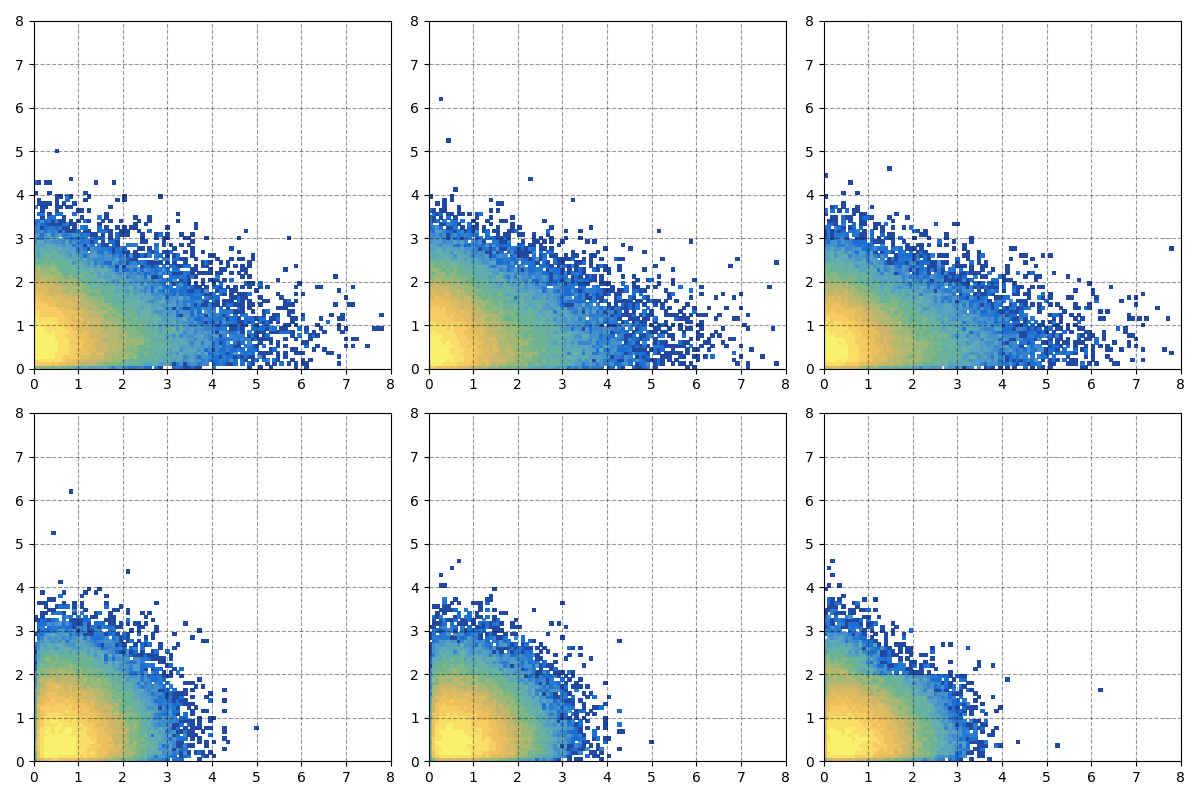
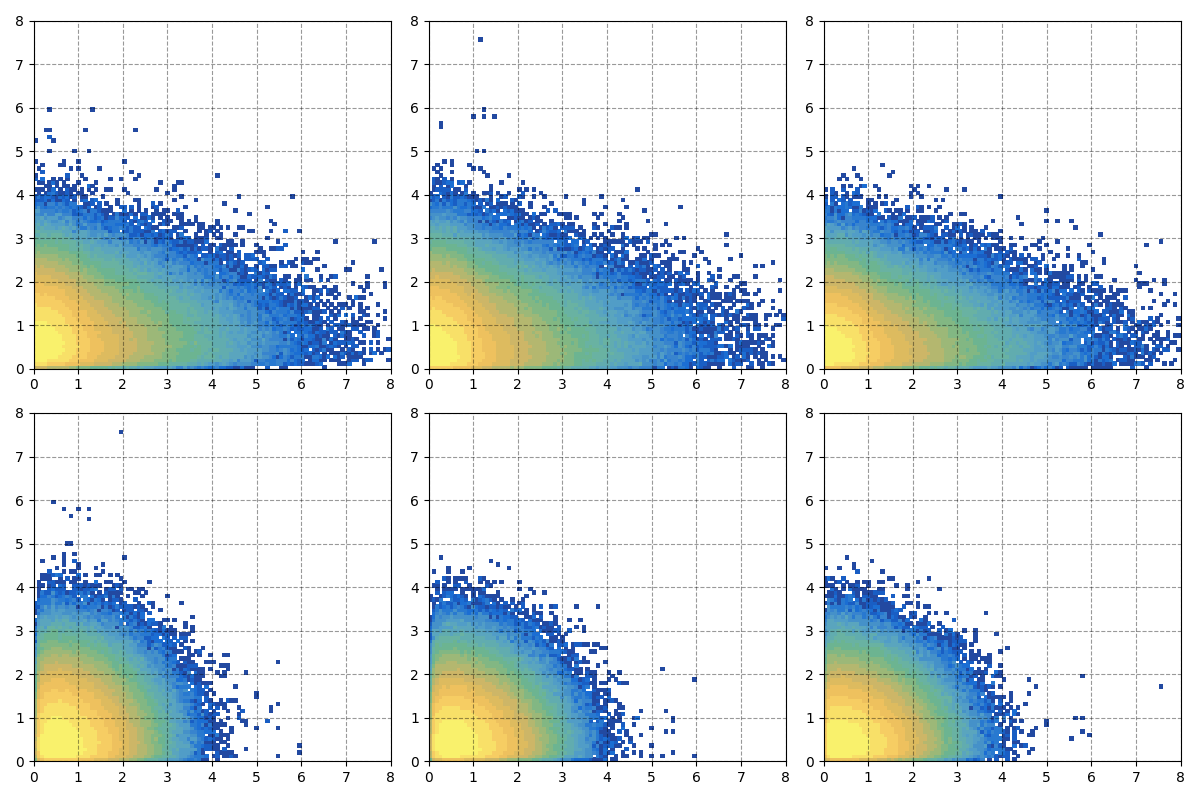
BDT

diff --git a/SHiP_GAN_module/muGAN.py b/SHiP_GAN_module/muGAN.py
@@ -103,7 +103,7 @@ class muGAN:
 
 
 	def generate_aux_tuned(self, size, distribution_parameters):
-		''' Generate tuned auxiliary distribution, will parameterise later. '''
+		''' Generate tuned auxiliary distribution '''
 
 		aux_values = np.abs(np.random.normal(loc=0,scale=1,size=(size,4)))
 
@@ -209,9 +209,8 @@ class muGAN:
 		where_array = where_array[0][:int(shape_i)]
 
 
-		# print(aux_values[where_array,2])
-		aux_values[where_array,2] = aux_values[where_array,2]*0.7
-		# print(aux_values[where_array,2])
+		aux_values[where_array,2] = aux_values[where_array,2]*0.8
+
 
 
 		return aux_values
@@ -574,8 +573,8 @@ class muGAN:
 		print(' ')
 
 	def compare_generators(self, size=10000, size_enhanced=10000, generator_list=['generator.h5'], output_folder='',training_data_location='/Users/am13743/Desktop/Data_for_GAN_paper_plots/real_data.npy'):
-		''' Generate muon kinematic vectors with custom auxiliary values. Function calculates the size variable based on the input aux distribution. '''
-		# auxiliary_distributions=np.load(os.path.dirname(os.path.realpath(__file__))+'/data_files/Seed_auxiliary_values_for_enhanced_generation.npy')
+		''' Compare multiple generators raw output. '''
+
 		self.define_plotting_tools()
 
 		X_train = np.load(training_data_location)
@@ -682,13 +681,91 @@ class muGAN:
 
 
 
+	def BDT_FoM(self, true_muons, generated_muons, test_size=50000):
+		''' Complete BDT FoM scoring... '''
+
+		if np.shape(true_muons)[0] < test_size*2:
+			print('Not enough points for BDT test')
+			quit()
+		elif np.shape(generated_muons)[0] < test_size*2:
+			print('Not enough points for BDT test')
+			quit()
+		elif np.shape(true_muons)[0] != np.shape(generated_muons)[0]:
+			print('Uneven number of points')
+			quit()
+		elif np.shape(generated_muons)[0] != test_size*2:
+			generated_muons = generated_muons[:int(test_size*2)]
+			true_muons = true_muons[:int(test_size*2)]
+
+		print(np.shape(generated_muons), np.shape(true_muons))
+
+		from sklearn.ensemble import GradientBoostingClassifier
+		from sklearn.metrics import roc_auc_score
+
+		# plt.figure(figsize=(12,4))
+		# range_x = [-0.0002,0.0002]
+		# plt.subplot(1,3,1)
+		# plt.hist(true_muons[:,0], bins=51, range=range_x, histtype='step')
+		# plt.yscale('log')
+		# plt.subplot(1,3,2)
+		# plt.hist(generated_muons[:,0], bins=51, range=range_x, histtype='step')
+		# plt.yscale('log')
+		generated_muons[np.where((np.abs(generated_muons[:,0])<0.0001)&(np.abs(generated_muons[:,1])<0.0001)),0] = 0
+		generated_muons[np.where((np.abs(generated_muons[:,0])<0.0001)&(np.abs(generated_muons[:,1])<0.0001)),1] = 0
+		# plt.subplot(1,3,3)
+		# plt.hist(generated_muons[:,0], bins=51, range=range_x, histtype='step')
+		# plt.yscale('log')
+		# plt.savefig('x')
+		# plt.close('all')
+
+
+		clf = GradientBoostingClassifier(n_estimators=100, learning_rate=0.1, max_depth=4)
+
+		X_train_sample = true_muons
+		images = generated_muons
+		bdt_train_size = test_size
+
+		real_training_data = X_train_sample[:bdt_train_size]
+
+		real_test_data = X_train_sample[bdt_train_size:]
+
+		fake_training_data = np.squeeze(images[:bdt_train_size])
+
+		fake_test_data = np.squeeze(images[bdt_train_size:])
+
+		real_training_labels = np.ones(bdt_train_size)
+
+		fake_training_labels = np.zeros(bdt_train_size)
+
+		total_training_data = np.concatenate((real_training_data, fake_training_data))
+
+		total_training_labels = np.concatenate((real_training_labels, fake_training_labels))
+
+		print('Fitting BDT...')
+		clf.fit(total_training_data, total_training_labels)
+
+		out_real = clf.predict_proba(real_test_data)
+
+		out_fake = clf.predict_proba(fake_test_data)
+
+		plt.hist([out_real[:,1],out_fake[:,1]], bins = 100,label=['real','gen'], histtype='step')
+		plt.xlabel('Output of BDT')
+		plt.legend(loc='upper right')
+		plt.savefig('BDT_distributions.png', bbox_inches='tight')
+		plt.close('all')
+
+		ROC_AUC_SCORE_curr = roc_auc_score(np.append(np.ones(np.shape(out_real[:,1])),np.zeros(np.shape(out_fake[:,1]))),np.append(out_real[:,1],out_fake[:,1]))
+
+		print('ROC FoM score:',ROC_AUC_SCORE_curr)
+
+
 
 
 
 
 
 	def tune(self, size=10000, initial_values=np.load(os.path.dirname(os.path.realpath(__file__))+'/data_files/tuned_aux_parameters.npy'), output_folder='Tuning_results', training_data_location='/mnt/storage/scratch/am13743/real_data.npy'):
-		''' Generate tuned auxiliary distribution, will parameterise later. '''
+		''' Complete analysis of a set of tuning parameters '''
 
 		self.define_plotting_tools()
 
@@ -730,10 +807,6 @@ class muGAN:
 
 		images = self.generate_custom_aux(auxiliary_distributions, size=size, generator_filename='generator.h5')[:,1:]
 
-
-
-
-
 		plt.figure(figsize=(3*4, 2*4))
 		subplot=0
 		for i in range(0, 6):
@@ -767,6 +840,8 @@ class muGAN:
 
 		self.plot_kinematics(data=images, filename='%s/Correlations_%s.png'%(output_folder,label))
 		self.plot_p_pt(data=images, filename='%s/P_PT_%s.png'%(output_folder,label))
+
+		self.BDT_FoM(X_train, images, test_size=50000)
 
 
 

diff --git a/Tune_auxiliary_inputs.py b/Tune_auxiliary_inputs.py
@@ -24,23 +24,8 @@ from SHiP_GAN_module import muGAN
 muGAN = muGAN()
 ########################################################################################################################################################
 
-# muGAN.tune(size=int(1E7), 
-	# output_folder='Tuning_results',
-	# training_data_location='/mnt/storage/scratch/am13743/real_data.npy')
 
-initial_values = np.empty((4,7))
-
-initial_values[0] = [ 1, 0.1, 0.8, 0, 0, 0, 0] # x y
-initial_values[1] = [ 0, 0, 0, 0.0005, 1.2, 1E-3, 0.27] # z 
-initial_values[2] = [ 0, 0, 0, 0.005, 1.3, 1E-3, 0.12] # px py
-# initial_values[3] = [ 0, 0, 0, 0.003, 1.1, 0, 0.2] # pz
-initial_values[3] = [ 0, 0, 0, 0.5, 0.8, 0, 0.2] # pz
-
-# np.save('SHiP_GAN_module/data_files/tuned_aux_parameters.npy',initial_values)
-# quit()
-
-
-muGAN.tune(size=int(1E5), initial_values=initial_values, 
+muGAN.tune(size=int(1E6), 
 	output_folder='Tuning_results',
 	training_data_location='/Users/am13743/Desktop/Data_for_GAN_paper_plots/real_data.npy')
 

diff --git a/Generate_physical_muons.py b/Generate_physical_muons.py
@@ -1,0 +1,26 @@
+'''
+
+	Script to be used for new combinatorial muon background analysis with most accurate GAN so far.
+
+'''
+
+import numpy as np
+from SHiP_GAN_module import muGAN
+
+
+muGAN = muGAN()
+
+for file_id in range(0, 100):
+
+	muon_kinematic_vectors = muGAN.generate(size=int(1E6), tuned_aux=True)
+
+	# if file_id == 0:
+
+	# 	muGAN.plot_kinematics(data=muon_kinematic_vectors, filename='K')
+
+	# 	muGAN.plot_p_pt(data=muon_kinematic_vectors, filename='P')
+
+
+	muGAN.save_to_ROOT(data=muon_kinematic_vectors,filename='muons_%d.root'%file_id)
+
+	quit()
